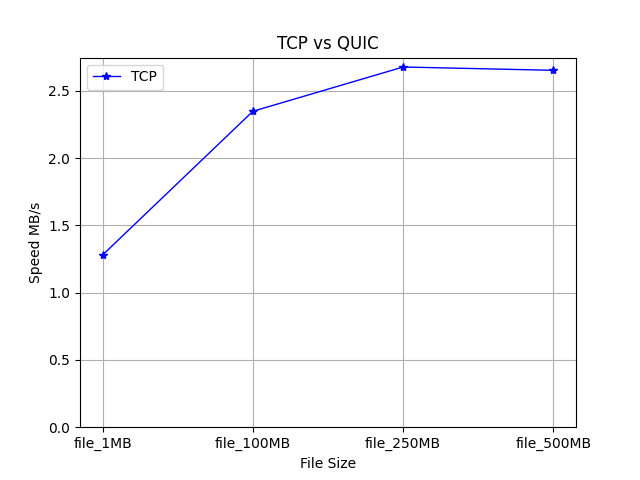
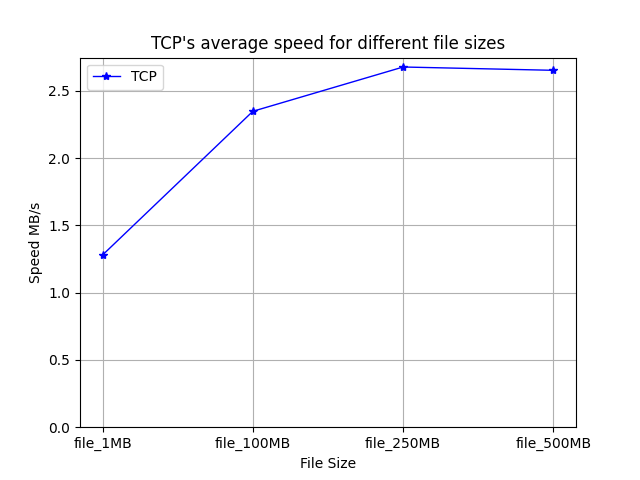
update plots + csv

Changed region(s): [[0.2188, 0.0625, 0.7812, 0.125]]

diff --git a/testScripts/basicPlot.py b/testScripts/basicPlot.py
@@ -17,76 +17,9 @@ data1 = dataTCP[tcp]
 quic = dataQUIC['version'] == 'quic'
 data2 = dataQUIC[quic]
 
-x = [1, 2, 3, 4, 5, 6]
-# file_sizes = ['empty_file', 'file_1MB', 'file_100MB', 'file_250MB', 'file_500MB']
-file_sizes = ['file_1MB', 'file_100MB', 'file_250MB', 'file_500MB']
+x = [1, 2, 3, 4, 5]
 
-mesurements = ['time_namelookup','time_connect','time_appconnect','time_pretransfer','time_starttransfer','time_total']
-
-# l = []
-# errors = []
-# for i in ['tcp']:
-#     yi = []
-#     ei = []
-#     for file in file_sizes:
-#         if file == 'file_1MB' : 
-#             s = 1
-#         if file == 'file_100MB':
-#             s = 100
-#         if file == 'file_250MB':
-#             s = 250
-#         if file == 'file_500MB':
-#             s = 500
-#         size = data['file'] == file
-#         print(size)
-#         data_i = (data[size]['version'] == i)
-#         # yi.append(data[size][data_i]['time_namelookup'].mean())
-#         # yi.append(data[size][data_i]['time_connect'].mean())
-#         # yi.append(data[size][data_i]['time_appconnect'].mean())
-#         # yi.append(data[size][data_i]['time_pretransfer'].mean())
-#         # yi.append(data[size][data_i]['time_starttransfer'].mean())
-#         yi.append(s/data[size][data_i]['time_total'].mean())
-#         # ei.append(data[size][data_i]['time_namelookup'].std())
-#         # ei.append(data[size][data_i]['time_connect'].std())
-#         # ei.append(data[size][data_i]['time_appconnect'].std())
-#         # ei.append(data[size][data_i]['time_pretransfer'].std())
-#         # ei.append(data[size][data_i]['time_starttransfer'].std())
-#         # ei.append(data[size][data_i]['time_total'].std())
-#     l.append(yi)
-#     errors.append(ei)
-
-# y1 = np.array(l[0])
-# y2 = np.array(l[1])
-# e1 = np.array(errors[0])
-# e2 = np.array(errors[1])
-
-# l = []
-# errors = []
-# for i in ['tcp', 'quic']:
-#     yi = []
-#     ei = []
-#     size = data['file'] == 'empty_file'
-#     print(size)
-#     data_i = (data[size]['version'] == i)
-#     yi.append(data[size][data_i]['time_namelookup'].mean())
-#     yi.append(data[size][data_i]['time_connect'].mean())
-#     yi.append(data[size][data_i]['time_appconnect'].mean())
-#     yi.append(data[size][data_i]['time_pretransfer'].mean())
-#     yi.append(data[size][data_i]['time_starttransfer'].mean())
-#     yi.append(data[size][data_i]['time_total'].mean())
-#     ei.append(data[size][data_i]['time_namelookup'].std())
-#     ei.append(data[size][data_i]['time_connect'].std())
-#     ei.append(data[size][data_i]['time_appconnect'].std())
-#     ei.append(data[size][data_i]['time_pretransfer'].std())
-#     ei.append(data[size][data_i]['time_starttransfer'].std())
-#     ei.append(data[size][data_i]['time_total'].std())
-#     l.append(yi)
-#     errors.append(ei)
-
-# y1 = np.array(l[0])
-# y2 = np.array(l[1])
-# e1 = np.array(errors[0])
-# e2 = np.array(errors[1])
+mesurements = ['time_namelookup','time_connect','time_pretransfer','time_starttransfer','time_total']
 
 l = []
 errors = []
@@ -98,13 +31,11 @@ for data,i in [(dataTCP, 'tcp'), (dataQUIC, 'quic')]:
     data_i = (data[size]['version'] == i)
     yi.append(data[size][data_i]['time_namelookup'].mean())
     yi.append(data[size][data_i]['time_connect'].mean())
-    yi.append(data[size][data_i]['time_appconnect'].mean())
     yi.append(data[size][data_i]['time_pretransfer'].mean())
     yi.append(data[size][data_i]['time_starttransfer'].mean())
     yi.append(data[size][data_i]['time_total'].mean())
     ei.append(data[size][data_i]['time_namelookup'].std())
     ei.append(data[size][data_i]['time_connect'].std())
-    ei.append(data[size][data_i]['time_appconnect'].std())
     ei.append(data[size][data_i]['time_pretransfer'].std())
     ei.append(data[size][data_i]['time_starttransfer'].std())
     ei.append(data[size][data_i]['time_total'].std())
@@ -141,10 +72,5 @@ plt.xticks(x,mesurements, rotation='vertical')
 # plt.xticks(x,file_sizes)
 
 plt.show()
-
-size = data['file'] == 'empty_file'
-print(size)
-data_i = (data[size]['version'] == i)
-print(data[size][data_i]['time_total'].mean())
 
 print("The end")

diff --git a/testScripts/tcpPlot.py b/testScripts/tcpPlot.py
@@ -1,0 +1,67 @@
+#!/usr/bin/env python3
+import matplotlib.pyplot as plt
+import numpy as np
+import pandas as pd
+
+fig1 = plt.figure()
+
+data = pd.read_csv("tcpSpeedTest.csv",sep=',')
+
+data = data.drop(['iter'],axis = 1)
+
+tcp = data['version'] == 'tcp'
+data1 = data[tcp]
+
+quic = data['version'] == 'quic'
+data2 = data[quic]
+
+x = [1, 2, 3, 4]
+file_sizes = ['file_1MB', 'file_100MB', 'file_250MB', 'file_500MB']
+
+l = []
+errors = []
+for i in ['tcp']:
+    yi = []
+    ei = []
+    for file in file_sizes:
+        if file == 'file_1MB' : 
+            s = 1
+        if file == 'file_100MB':
+            s = 100
+        if file == 'file_250MB':
+            s = 250
+        if file == 'file_500MB':
+            s = 500
+        size = data['file'] == file
+        print(size)
+        data_i = (data[size]['version'] == i)
+        yi.append(s/data[size][data_i]['time_total'].mean())
+        ei.append(data[size][data_i]['time_total'].std())
+    l.append(yi)
+    errors.append(ei)
+
+y1 = np.array(l[0])
+e1 = np.array(errors[0])
+
+# plt.yscale('log')
+plt.plot(x, y1,color="blue", linewidth=1.0, linestyle='-', marker='*')
+# plt.errorbar(x,y1,e1,linestyle='None', marker='.')
+plt.xlabel('File Size')
+plt.ylabel('Speed MB/s')
+plt.ylim(ymin=0)
+# Donner un titre à votre graphe.
+plt.title("TCP's average speed for different file sizes")
+
+# Permet d'ajouter une grille au graphe, rendant la lecture de vos données plus facile.
+plt.grid(True)
+plt.legend(['TCP'], loc = 'upper left')
+plt.xticks(x,file_sizes)
+
+plt.show()
+
+size = data['file'] == 'empty_file'
+print(size)
+data_i = (data[size]['version'] == i)
+print(data[size][data_i]['time_total'].mean())
+
+print("The end")

diff --git a/report.rst b/report.rst
@@ -8,35 +8,32 @@ by Samy Bettaieb and Jonathan de Salle
 1) Introduction
 ====================
 
-The objective of this project is to compare the performance of TCP [1] and one QUIC [2] implementation with real servers on the Internet through a satellite link. 
+The objective of this project is to compare the performance of TCP [#]_ and one QUIC [#]_ implementation with real servers on the Internet through a satellite link. 
 The measurements should be scripted and automatically analyzed to be easily performed and reproduced.
 
 We decided to restrict ourselves to measuring the performance of both protocols in the case of a download from the satellite link, and will not measure the performances on the upload.  
 
 You can find the different files created for the project at the link https://github.com/jdesalle/linfo2142_project . 
 
-[1] https://datatracker.ietf.org/doc/html/rfc793
+.. [#] https://datatracker.ietf.org/doc/html/rfc793
+.. [#] https://datatracker.ietf.org/doc//html/rfc9000/
 
-[2] https://datatracker.ietf.org/doc//html/rfc9000/
 
-2) Tools
+1) Tools
 ==========
 To perform the measurements, we use several tools, which will be described in this section .
 
-We have chosen to use cloudflare's implementation of QUIC: *Quiche* [1]  . We opted for that implementation, since it is compatible with a version of  *cURL* [2], which we use to perform our measurements.
+We have chosen to use cloudflare's implementation of QUIC: *Quiche* [#]_  . We opted for that implementation, since it is compatible with a version of  *cURL* [#]_, which we use to perform our measurements.
 
 To have a better control over our measurements, we implemented a web server using *Nginx 1.16*. The choice of the specific 1.16 version is because a patch for this version exists to use it with Quiche, which is the QUIC implementation we are using through this project. While Nginx has its own implementation of QUIC, we chose to keep a same implementation for the whole project. 
 
-We use *Wireshark* [3] and especially its CLI interface *tshark* to capture packets and analyze their different characteristics. We will also use *QUIClog* [3] to analyze these packets.
+We use *Wireshark* [#]_ and especially its CLI interface *tshark* to capture packets and analyze their different characteristics. We will also use *QUIClog* [#]_ to analyze these packets.
 
 
-[1] https://github.com/cloudflare/quiche 
-
-[2] https://github.com/curl/curl/blob/master/docs/HTTP3.md#quiche-version
-
-[3] https://www.wireshark.org/
-
-[4] https://github.com/quiclog
+.. [#] https://github.com/cloudflare/quiche 
+.. [#] https://github.com/curl/curl/blob/master/docs/HTTP3.md#quiche-version
+.. [#] https://www.wireshark.org/
+.. [#] https://github.com/quiclog
 
 3) Methodology
 ===============
@@ -56,26 +53,22 @@ For empty files, we repeated measurements 100 times, after noticing some random 
 
 4) Configuration of the server
 ==============================
-The first step of our configuration is to add your serve in the /etc/host file, and use the domain name linfo2142.serv for our scripts to work. In our case, the IP of our server is 130.104.229.21, the command to do this is  *$ sudo echo "130.104.229.21    linfo2142" >> /etc/hosts*
+The first step of our configuration is to add your serve in the /etc/host file, if you do not have a DNS name attribued to your server. We had a DNS name for our server: linfo2142-grp2.info.ucl.ac.be. For other names, you may have to adpat our scripts. In our case, the IP of our server is 130.104.229.21, the command to do set a host name may look like  *$ sudo echo "130.104.229.21    linfo2142" >> /etc/hosts*
 
 The next step is to proceed to the installation of our version of nginx. The basic explanation for building a nginx 1.16 server with Quiche can be found online [1]. You may have to install some dependencies using your preferred package manager. 
 
 
 After building nginx, you will have to add it to your path variable. There are multiple ways to do this, we chose to add it in /etc/environment.
-You will have to generate files for the measurement through our script [2] in  /var/www/files folder, so that they will be accessible by the server. This repository must be accessible by any user.
+You will have to generate files for the measurement through our script [#]_ in  /var/www/files folder, so that they will be accessible by the server. This repository must be accessible by any user.
 
-To run nginx, you will have to add our nginx.conf [3] file in your nginx repository. You'll also need to put the SSL key [4] and certificate [5] of our server in a folder named "certs" created in the same directory. 
+To run nginx, you will have to add our nginx.conf [#]_ file in your nginx repository. You'll also need to put the SSL key [4] and certificate [5] of our server in a folder named "certs" created in the same directory. 
 When that is done, you can run the command  *$ nginx -c nginx.conf* to launch the server.
 
-[1] https://blog.cloudflare.com/experiment-with-http-3-using-nginx-and-quiche/ 
-
-[2] https://github.com/jdesalle/linfo2142_project/blob/main/files/generate.sh
-
-[3] https://github.com/jdesalle/linfo2142_project/blob/main/nginx.conf
-
-[4] https://github.com/jdesalle/linfo2142_project/blob/main/certs/server_cert/linfo2142_serv.key
-
-[5] https://github.com/jdesalle/linfo2142_project/blob/main/certs/server_cert/linfo2142_serv.crt
+.. [#] https://blog.cloudflare.com/experiment-with-http-3-using-nginx-and-quiche/ 
+.. [#] https://github.com/jdesalle/linfo2142_project/blob/main/files/generate.sh
+.. [#] https://github.com/jdesalle/linfo2142_project/blob/main/nginx.conf
+.. [#] https://github.com/jdesalle/linfo2142_project/blob/main/certs/server_cert/linfo2142_serv.key
+.. [#] https://github.com/jdesalle/linfo2142_project/blob/main/certs/server_cert/linfo2142_serv.crt
 
 5) Issues
 ============
@@ -95,32 +88,36 @@ This issue has been fixed 30 mins before this deadline (thanks to a patch from F
 ------------------------------
 We tried to check the influence of the size of a file on the speed and packet loss for each protocol. For this we tried to create files of different sizes (empty, 1 MB, 100 MB, 250 MB, 500 MB) to download. 
 Unfortunately, curl seems to have a problem with
-big files in http3 [1], which didn't allow making the measurement in QUIC for this iteration of the report.
+big files in http3 [#]_, which didn't allow making the measurement in QUIC for this iteration of the report.
 
 When trying to download large files (or even non-empty files), the current speed drops to 0 and it looks like the download does not terminate even after 3 hours (see image below).
 It is a random bug, sometimes it works, but most of the time it does not ¯\\\_(ツ)_/¯.
 
-.. image:: images/curlhttp3.png
-    :width: 80%
+.. figure:: images/curlhttp3.png
+    :figwidth: 80%
+    :alt: description
+
+::numref:`cURL using http3` 
+
 
 It seems to be a known bug, and since the majority of issues on this topic on github are closed, we did not notice the problem early enough to change our methodology.
 We will try to find another way to download files in http3 for the final deadline.
 
-[1] https://curl.se/docs/knownbugs.html#HTTP3
+.. [#] https://curl.se/docs/knownbugs.html#HTTP3
 
 
 
-6) Results
+1) Results
 ==========
 
 6.1) Time measurements
 ------------------------
-First, we compared some basic metrics while downloading a blank page
+First, we compared some basic metrics while downloading a blank page, a file of 0 bytes stored on our server.
 
 .. image:: images/basicPlot1.png
     :width: 80%
  
-We can see that the average time for downloading the empty file is 0.13652440000000002 s, which corresponds to the time to get an empty packet from the satellite, which will be the minimum delay of our operations. 
+We can see that the average time for downloading the empty file is 0.136524s, which corresponds to the time to get an empty packet from the satellite, which will be the minimum delay of our operations. 
 
 The first thing we notice is the high standard deviation in QUIC compared to TCP, the performance of TCP is more stable/less random than QUIC's.
 
@@ -137,19 +134,19 @@ With 100 iterations, we seemed to have more stable results :
 .. image:: images/basicPlot3.png
     :width: 80%
 
-Here, the average time to download empty files is 0.15899407000000004 s
+Here, the average time to download empty files is 0.158994s
 
-We see that over all QUIC is faster and spend less time to connect : This is probably due to QUIC's handshake which uses the mode 0-RTT [1], where the transport and cryptographic handshake can be sent in a single operation along with the http3 requests in the first connection and makes a 0 Round-Trip Time possible.
+We see that over all QUIC is faster and spend less time to connect : This is probably due to QUIC's handshake which uses the mode 0-RTT [#]_, where the transport and cryptographic handshake can be sent in a single operation along with the http3 requests in the first connection and makes a 0 Round-Trip Time possible.
 
-[1] https://blog.cloudflare.com/even-faster-connection-establishment-with-quic-0-rtt-resumption/
+.. [#] https://blog.cloudflare.com/even-faster-connection-establishment-with-quic-0-rtt-resumption/
 
 
 6.2) Congestion control algorithms
 -----------------------------------
 TCP and QUIC can use the same congestion control algorithms. In our case, both the server and our client machine use cubic by default for TCP, it should be the method used.
-The Quiche implementation of QUIC can use both cubic or Hystart++ [1]. In our cases, both TCP and QUIC should use the same congestion control algorithm: cubic.
+The Quiche implementation of QUIC can use both cubic or Hystart++ [#]_. In our cases, both TCP and QUIC should use the same congestion control algorithm: cubic.
 
-[1] https://blog.cloudflare.com/cubic-and-hystart-support-in-quiche/
+.. [#] https://blog.cloudflare.com/cubic-and-hystart-support-in-quiche/
 
 
 6.3) Influence of file size (in TCP, see issues)
